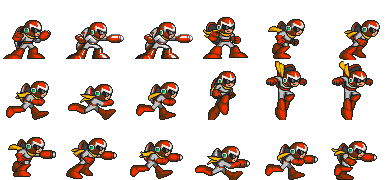
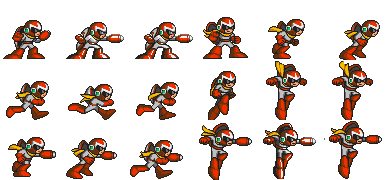
Add animation of player when jump and fire

Changed region(s): [[0.6769, 0.6667, 0.9846, 1.0], [0.4923, 0.6667, 0.6462, 1.0]]

diff --git a/src/org/escoladeltreball/universerescue/game/Player.java b/src/org/escoladeltreball/universerescue/game/Player.java
@@ -86,8 +86,13 @@ public class Player extends AnimatedSprite implements IAnimationListener {
 		Vector2Pool.recycle(velocity);
 		physicsWorld.registerPhysicsConnector(new PhysicsConnector(sprite,
 				this.bulletBody, true, false));
-		this.animate(new long[] { 100, 100, 200, 100 },
-				new int[] { 0, 1, 2, 0 }, false, this);
+		if (!isJump) {
+			this.animate(new long[] { 100, 100, 200, 100 }, new int[] { 0, 1,
+					2, 0 }, false, this);
+		} else {
+			this.animate(new long[] { 200, 200, 200, 200 }, new int[] { 15, 16,
+					17, 11 }, false, this);
+		}
 	}
 
 	public void run(float pValueX) {

diff --git a/src/org/escoladeltreball/universerescue/scenes/GameScene.java b/src/org/escoladeltreball/universerescue/scenes/GameScene.java
@@ -101,7 +101,7 @@ public class GameScene extends BaseScene implements IOnSceneTouchListener,
 		createFlyEnemy();
 		createEnemy();
 		DebugRenderer debug = new DebugRenderer(physics, vbom);
-		his.attachChild(debug);
+		this.attachChild(debug);
 		setOnSceneTouchListener(this);
 	}
 
